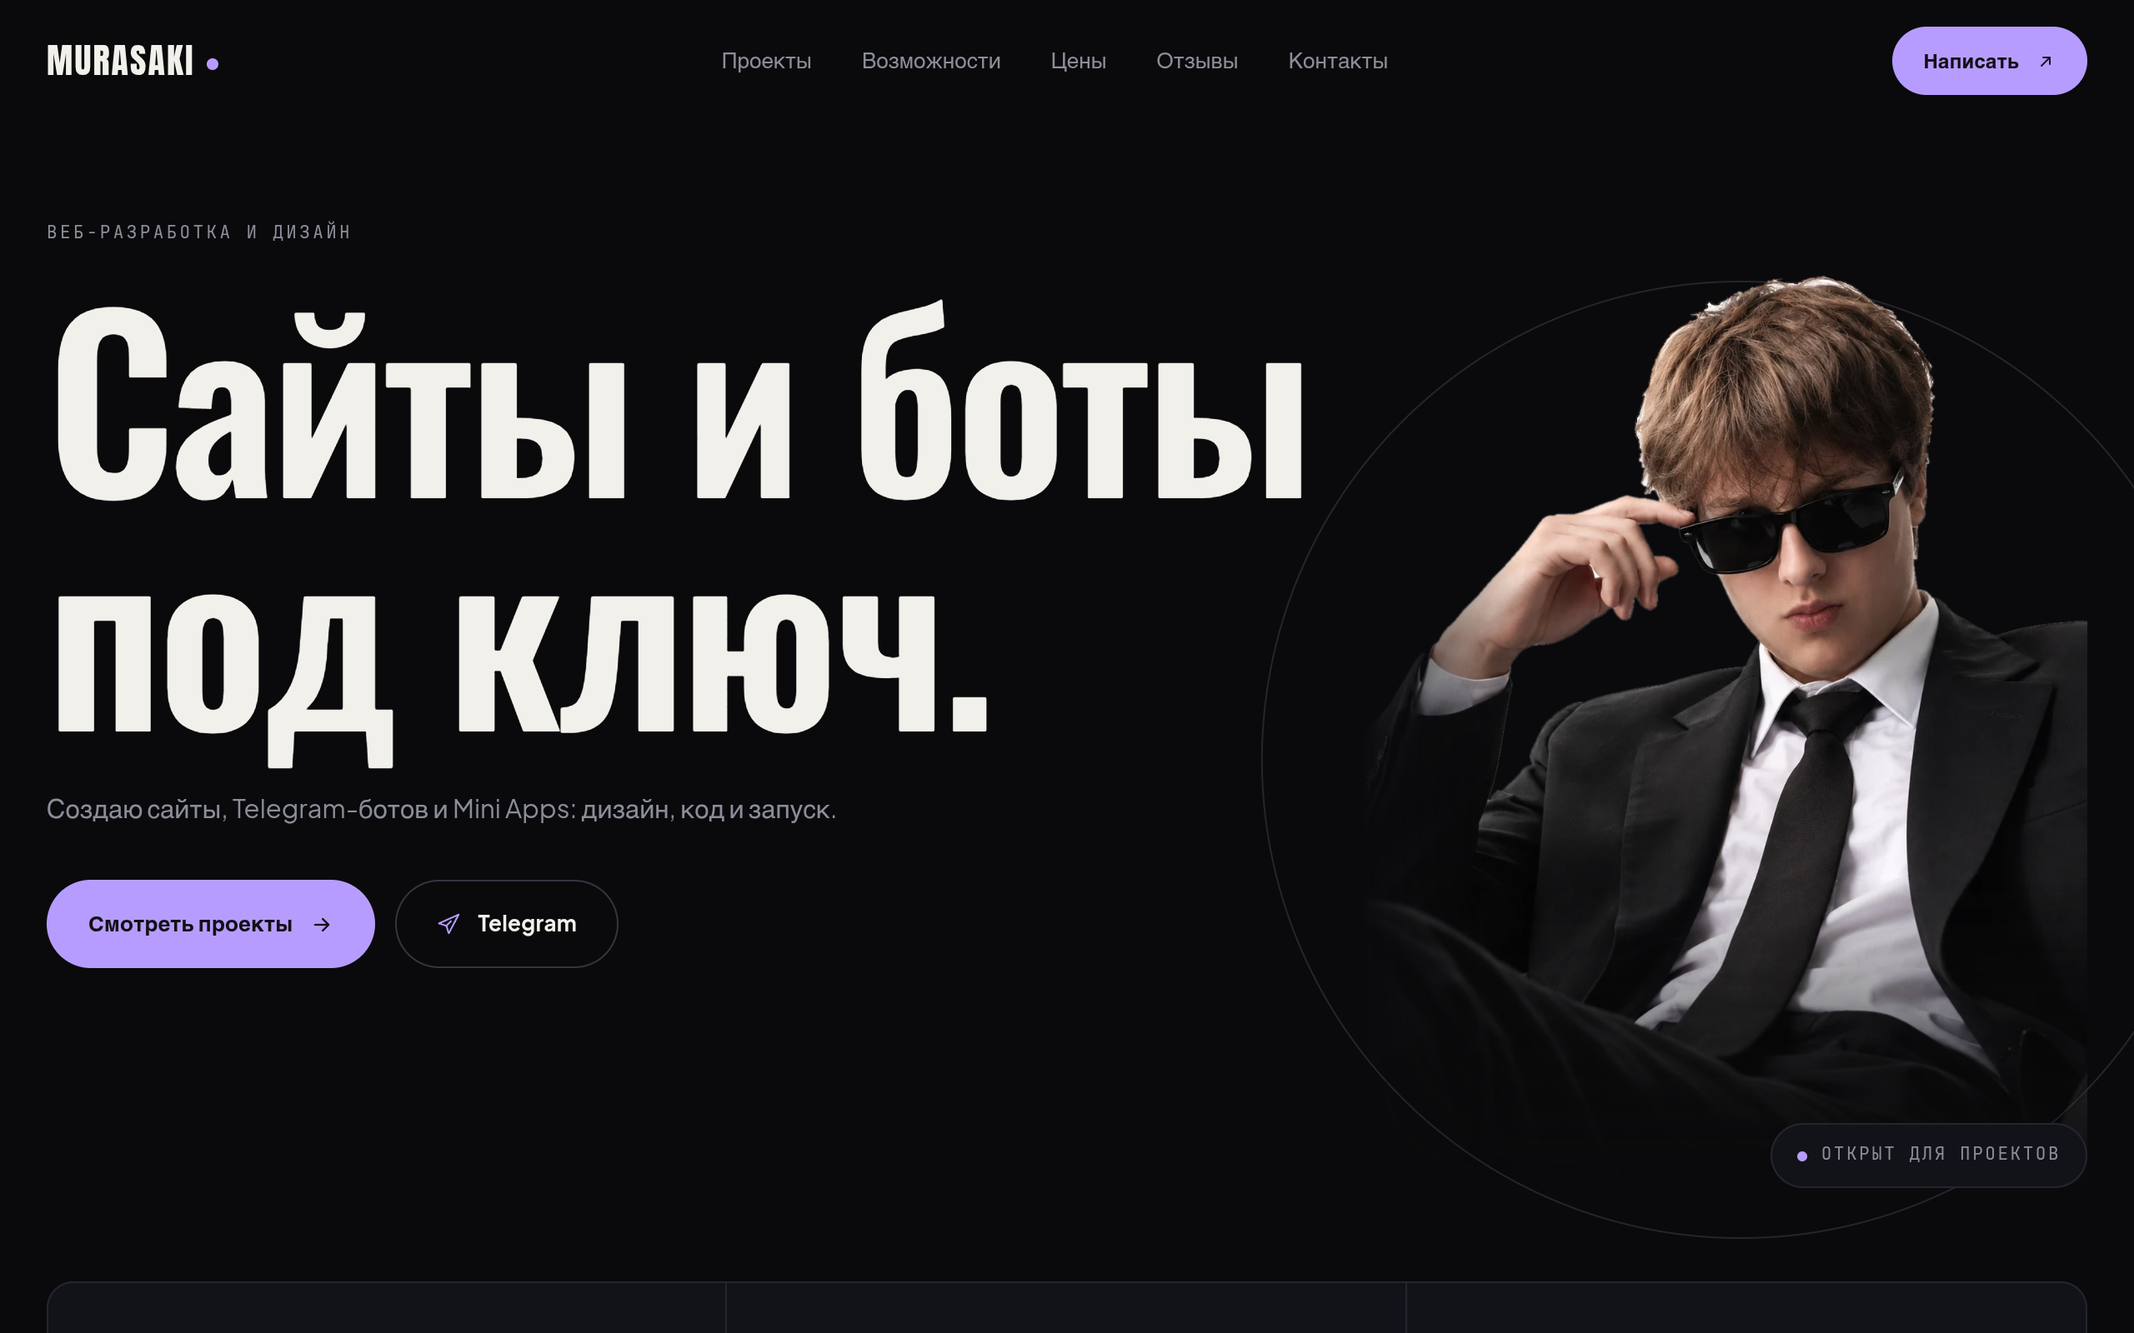
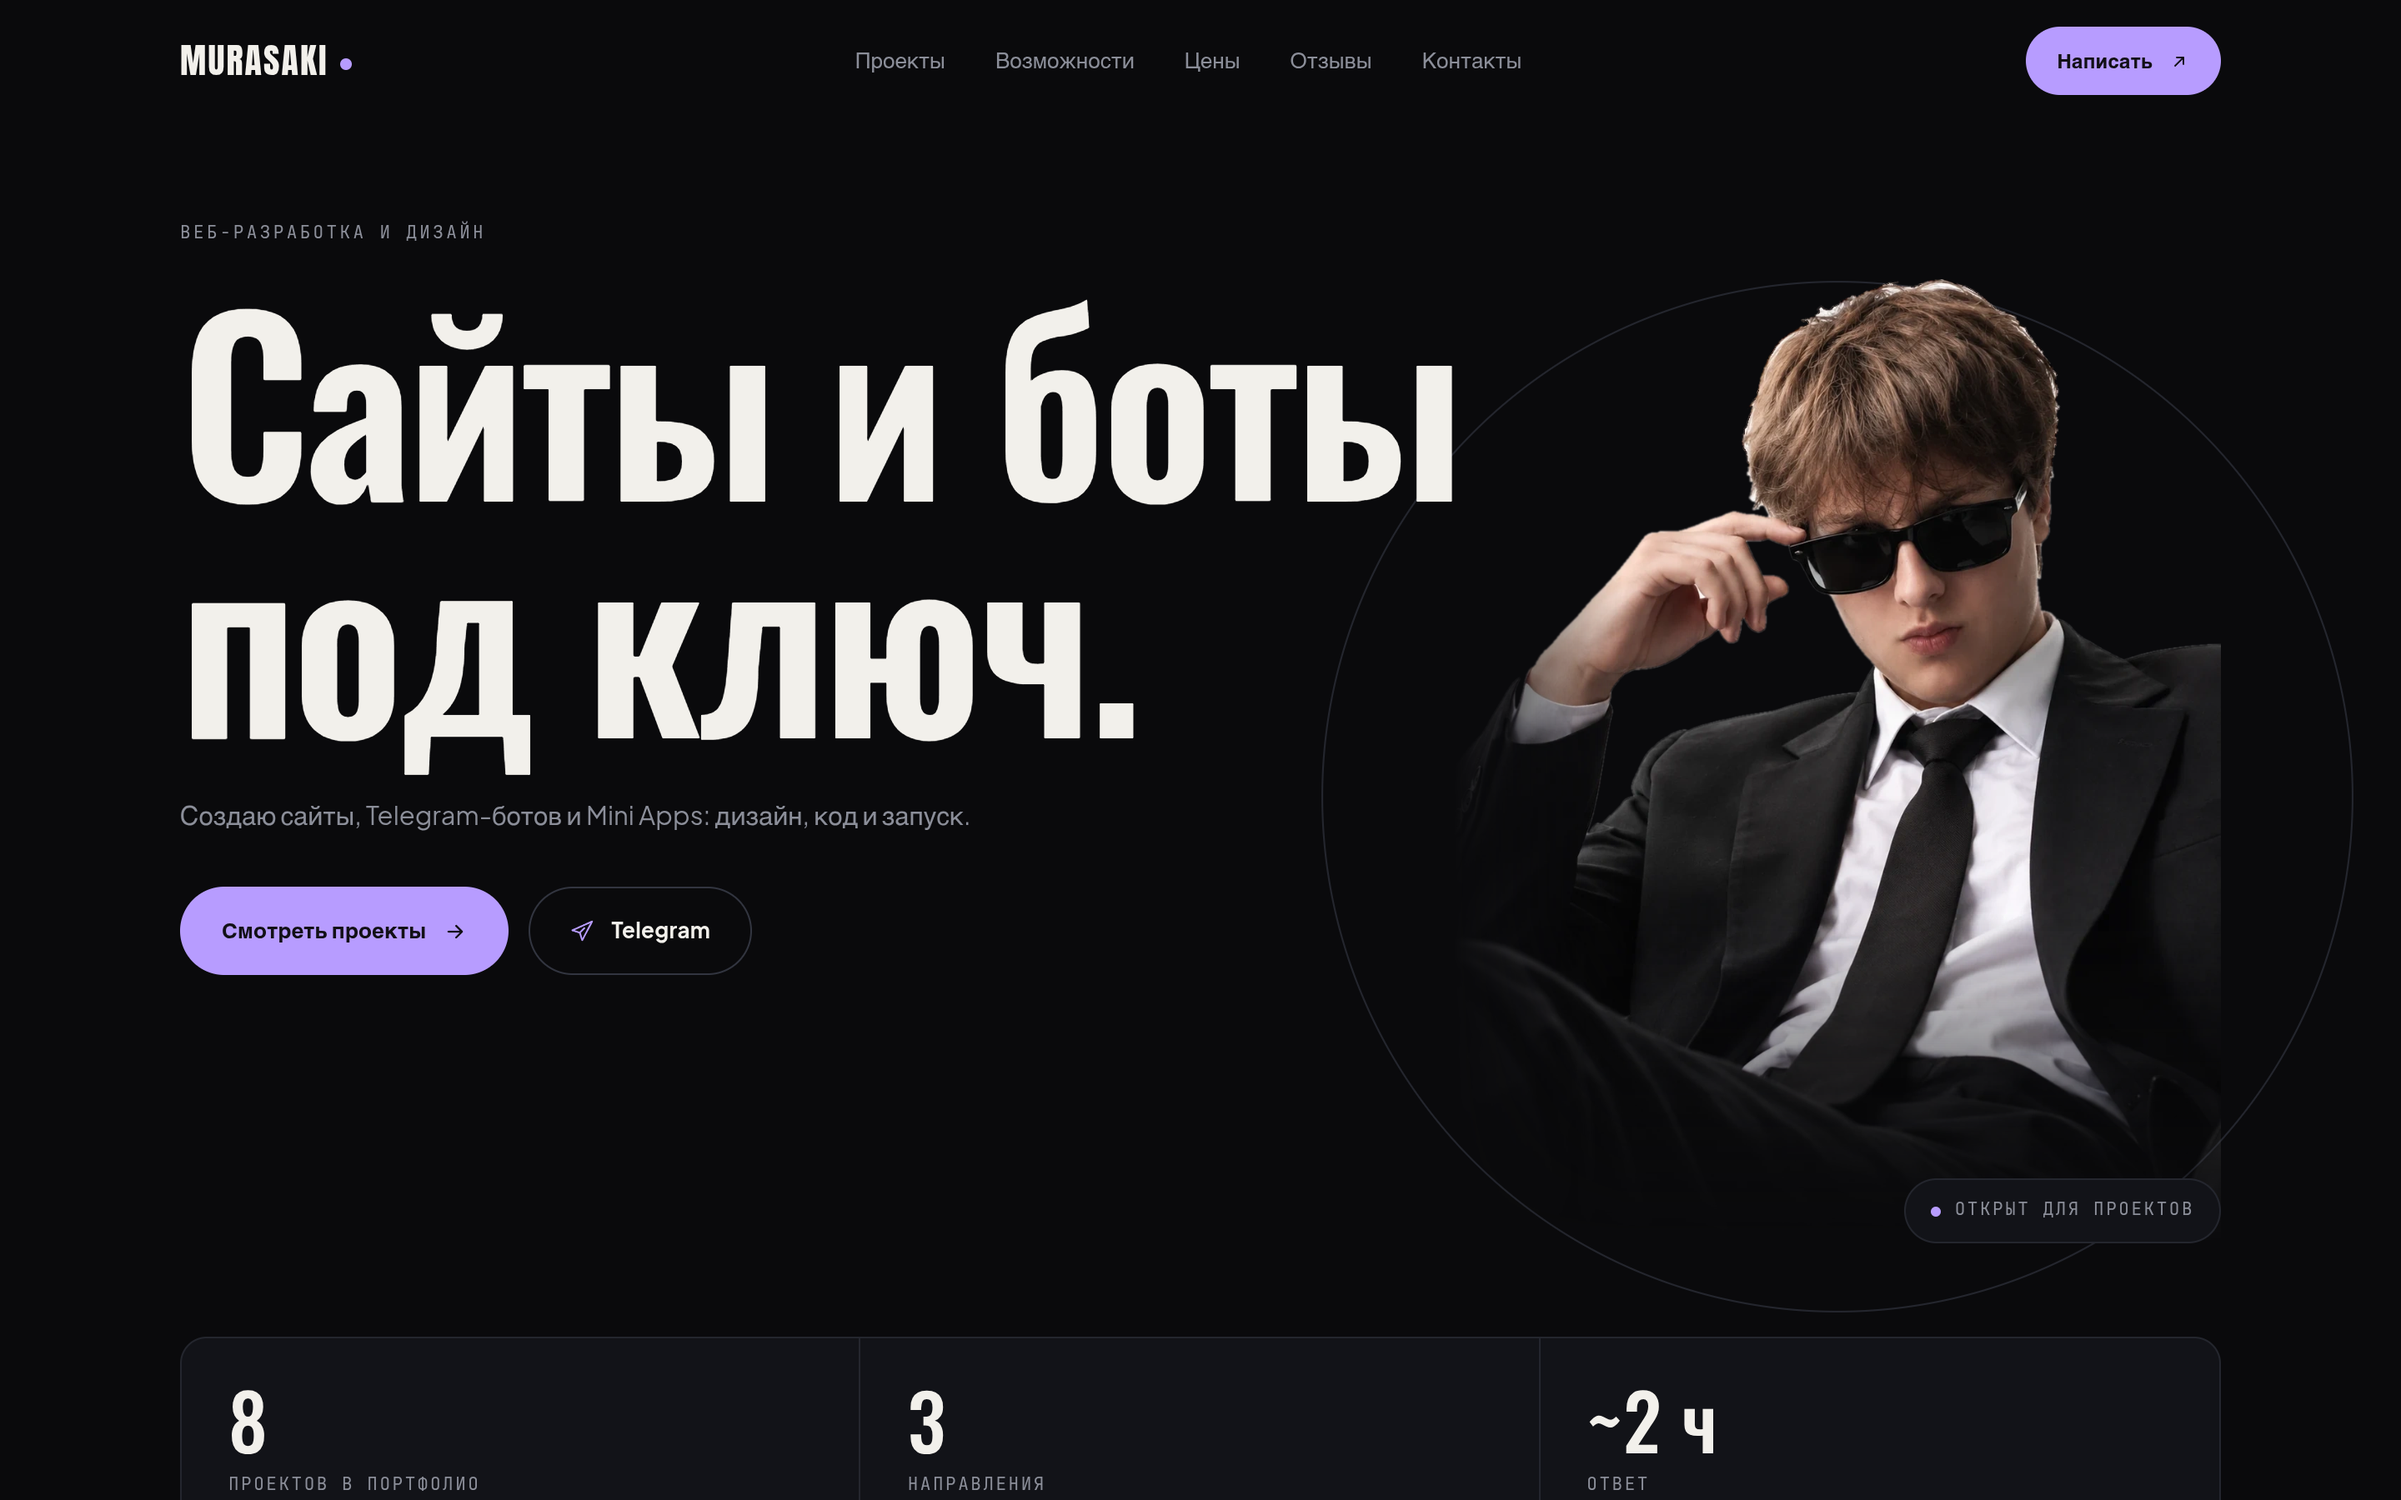
feat(portfolio): refresh hero screenshot with telegram @loves_kyni, email and github contacts, fix DATA_DIR import

diff --git a/backend/app/api/telegram.py b/backend/app/api/telegram.py
@@ -8,7 +8,7 @@ from pydantic import BaseModel, ConfigDict, Field
 from sqlalchemy import delete, desc, select
 from sqlalchemy.ext.asyncio import AsyncSession
 
-from app.config import settings
+from app.config import DATA_DIR, settings
 from app.db import get_session
 from app.models import TelegramBroadcast, TelegramChatTarget, TelegramOrder, utcnow
 from app.services.billing import check_and_spend, get_or_create_user
